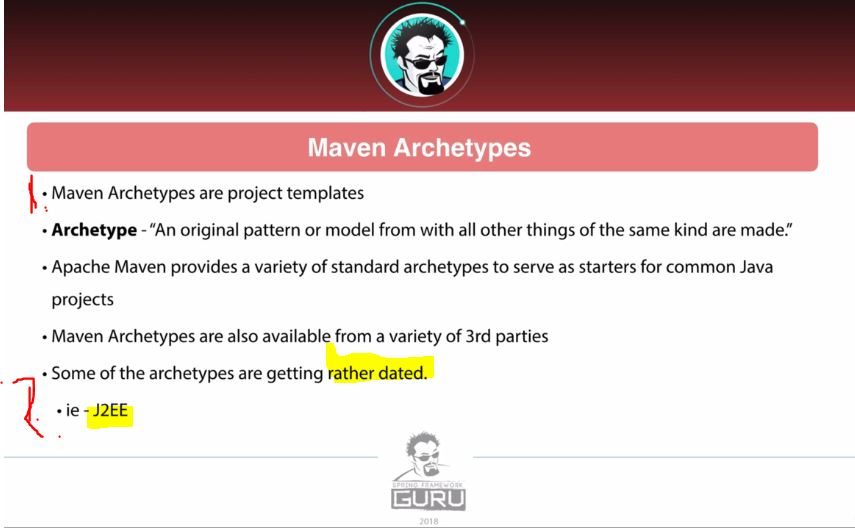
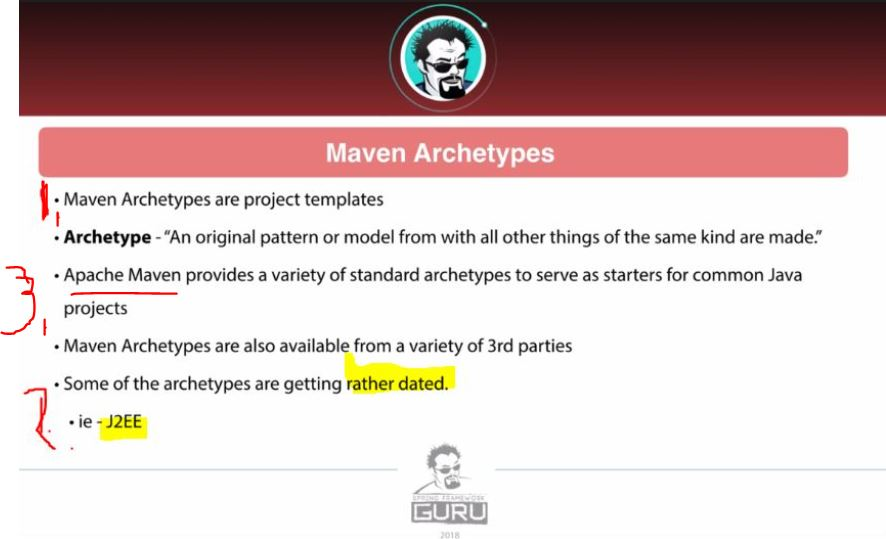
proceeded

diff --git a/Apache Maven Beginner to Guru/Section 05/generate own archetype/example-project/src/test/java/guru/springframework/AppTest.java b/Apache Maven Beginner to Guru/Section 05/generate own archetype/example-project/src/test/java/guru/springframework/AppTest.java
@@ -1,0 +1,38 @@
+package guru.springframework;
+
+import junit.framework.Test;
+import junit.framework.TestCase;
+import junit.framework.TestSuite;
+
+/**
+ * Unit test for simple App.
+ */
+public class AppTest
+    extends TestCase
+{
+    /**
+     * Create the test case
+     *
+     * @param testName name of the test case
+     */
+    public AppTest( String testName )
+    {
+        super( testName );
+    }
+
+    /**
+     * @return the suite of tests being tested
+     */
+    public static Test suite()
+    {
+        return new TestSuite( AppTest.class );
+    }
+
+    /**
+     * Rigourous Test :-)
+     */
+    public void testApp()
+    {
+        assertTrue( true );
+    }
+}

diff --git a/Apache Maven Beginner to Guru/Section 05/generate own archetype/example-project/src/main/java/guru/springframework/App.java b/Apache Maven Beginner to Guru/Section 05/generate own archetype/example-project/src/main/java/guru/springframework/App.java
@@ -1,0 +1,13 @@
+package guru.springframework;
+
+/**
+ * Hello world!
+ *
+ */
+public class App
+{
+    public static void main( String[] args )
+    {
+        System.out.println( "Hello World!" );
+    }
+}

diff --git a/Apache Maven Beginner to Guru/Section 05/README.md b/Apache Maven Beginner to Guru/Section 05/README.md
@@ -300,6 +300,117 @@ wrapperUrl=https://repo.maven.apache.org/maven2/io/takari/maven-wrapper/0.5.6/ma
 <img src="mavenArhetypes.JPG"  alt="alt text" width="600"/>
 
 1. **Maven Archetypes** define project templates.
-2. Some archetypes are getting old! Example **J2EE** is rather old. 
+2. Some archetypes are getting **old!** Example **J2EE** is rather **old**. This is retired decade ago!
+3. **Apache Maven** provides multiple different standard archetypes for starting up the project! 
+
+
+- Here you can see different examples of **Maven Archetypes** [Archetypes examples](https://maven.apache.org/archetypes/index.html).
+
+- We are interested in the simple case: `maven-archetype-simple` An archetype to generate a simple Maven project.
+    - Simple [case](https://maven.apache.org/archetypes/maven-archetype-simple/).
+
+
+<img src="SimpleGenerateArchetype.JPG"  alt="alt text" width="600"/>
+
+1. Name of the **plugin**.
+2. Name of the **plugin goal**.
+
+- We can generate our project structure. 
+```
+mvn archetype:generate -DarchetypeGroupId=org.apache.maven.archetypes -DarchetypeArtifactId=maven-archetype-simple -DarchetypeVersion=1.5
+```
+
+<img src="executingTheGenerateCommand.JPG"  alt="alt text" width="600"/>
+
+- Generated **POM** from the `archetype:generate`:
+
+````
+<?xml version="1.0" encoding="UTF-8"?>
+
+<project xmlns="http://maven.apache.org/POM/4.0.0" xmlns:xsi="http://www.w3.org/2001/XMLSchema-instance"
+  xsi:schemaLocation="http://maven.apache.org/POM/4.0.0 http://maven.apache.org/xsd/maven-4.0.0.xsd">
+  <modelVersion>4.0.0</modelVersion>
+
+  <groupId>guru.springframework</groupId>
+  <artifactId>example-project</artifactId>
+  <version>1.0-SNAPSHOT</version>
+
+  <name>example-project</name>
+  <description>A simple example-project.</description>
+  <!-- FIXME change it to the project's website -->
+  <url>http://www.example.com</url>
+
+  <properties>
+    <project.build.sourceEncoding>UTF-8</project.build.sourceEncoding>
+    <maven.compiler.source>8</maven.compiler.source>
+    <maven.compiler.target>8</maven.compiler.target>
+  </properties>
+
+  <dependencies>
+    <dependency>
+      <groupId>junit</groupId>
+      <artifactId>junit</artifactId>
+      <version>3.8.1</version>
+    </dependency>
+  </dependencies>
+
+  <build>
+    <pluginManagement><!-- lock down plugins versions to avoid using Maven defaults (may be moved to parent pom) -->
+      <plugins>
+        <plugin>
+          <artifactId>maven-clean-plugin</artifactId>
+          <version>3.4.0</version>
+        </plugin>
+        <plugin>
+          <artifactId>maven-site-plugin</artifactId>
+          <version>3.12.1</version>
+        </plugin>
+        <plugin>
+          <artifactId>maven-project-info-reports-plugin</artifactId>
+          <version>3.6.1</version>
+        </plugin>
+        <!-- see http://maven.apache.org/ref/current/maven-core/default-bindings.html#Plugin_bindings_for_jar_packaging -->
+        <plugin>
+          <artifactId>maven-resources-plugin</artifactId>
+          <version>3.3.1</version>
+        </plugin>
+        <plugin>
+          <artifactId>maven-compiler-plugin</artifactId>
+          <version>3.13.0</version>
+        </plugin>
+        <plugin>
+          <artifactId>maven-surefire-plugin</artifactId>
+          <version>3.3.0</version>
+        </plugin>
+        <plugin>
+          <artifactId>maven-jar-plugin</artifactId>
+          <version>3.4.2</version>
+        </plugin>
+        <plugin>
+          <artifactId>maven-install-plugin</artifactId>
+          <version>3.1.2</version>
+        </plugin>
+        <plugin>
+          <artifactId>maven-deploy-plugin</artifactId>
+          <version>3.1.2</version>
+        </plugin>
+      </plugins>
+    </pluginManagement>
+  </build>
+
+  <reporting>
+    <plugins>
+      <plugin>
+        <artifactId>maven-project-info-reports-plugin</artifactId>
+      </plugin>
+    </plugins>
+  </reporting>
+</project>
+````
+
+- Different **Artifacts** has different **Templates**.
+    - This is useful for example **Apache Camel**.
 
 # Conclusion.
+
+- Check. ✅

diff --git a/README.md b/README.md
@@ -511,7 +511,7 @@ Linkedin puts this shit front, when clicking from private mode x(. Need to put t
 - [x] [Section 02](https://github.com/developersCradle/spring-springboot-angular-microservices-mysql-java-persistence-hibernate-aws/tree/main/Apache%20Maven%20Beginner%20to%20Guru/Section%2002#section-02-getting-started) - Getting Started. ✅
 - [x] [Section 03](https://github.com/developersCradle/spring-springboot-angular-microservices-mysql-java-persistence-hibernate-aws/tree/main/Apache%20Maven%20Beginner%20to%20Guru/Section%2003#section-03-compiling-java) - Compiling Java. ✅
 - [x] [Section 04](https://github.com/developersCradle/spring-springboot-angular-microservices-mysql-java-persistence-hibernate-aws/tree/main/Apache%20Maven%20Beginner%20to%20Guru/Section%2004#section-4-getting-started-with-maven) - Getting Started with Maven. ✅
-- [ ] [Section 05](https://github.com/developersCradle/spring-springboot-angular-microservices-mysql-java-persistence-hibernate-aws/tree/main/Apache%20Maven%20Beginner%20to%20Guru/Section%2005#section-5-maven-basics) - Maven Basics.
+- [x] [Section 05](https://github.com/developersCradle/spring-springboot-angular-microservices-mysql-java-persistence-hibernate-aws/tree/main/Apache%20Maven%20Beginner%20to%20Guru/Section%2005#section-5-maven-basics) - Maven Basics. ✅
 - [ ] [Section 06](#) - Common Maven Plugins.  
 - [ ] [Section 07](#) - Generating Source with Maven.  
 - [ ] [Section 08](#) - Alternate JVM Languages.  

diff --git a/Apache Maven Beginner to Guru/Section 06/README.md b/Apache Maven Beginner to Guru/Section 06/README.md
@@ -1,0 +1,7 @@
+# Section 06: Common Maven Plugins.
+
+Common Maven Plugins.
+
+# What I Learned.
+
+# Introduction.
